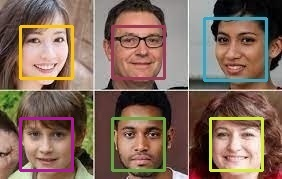
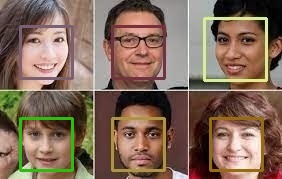
correção de cores

diff --git a/ProjetoPDS/website/scriptaddPublicacao.js b/ProjetoPDS/website/scriptaddPublicacao.js
@@ -277,9 +277,9 @@ document.getElementById('addPublicacao').addEventListener('submit', async functi
                         segundaCor = utentesVerificar[i].segundaCor;   
                         terceiraCor = utentesVerificar[i].terceiraCor;   
                         corUtilizador.setAttribute('id', 'corNaoIdentificado' + (i + 1));
-                        corUtilizador.style.backgroundColor = `rgb(${primeiraCor}, ${segundaCor}, ${terceiraCor})`;
+                        corUtilizador.style.backgroundColor = `rgb(${terceiraCor}, ${segundaCor}, ${primeiraCor})`;
                         corUtilizador.innerHTML='.'
-                        corUtilizador.style.color = `rgb(${primeiraCor}, ${segundaCor}, ${terceiraCor})`;
+                        corUtilizador.style.color = `rgb(${terceiraCor}, ${segundaCor}, ${primeiraCor})`;
                         corTd.append(corUtilizador);
                     }
                 //Para adicionar o nome do utilizador, valencia, sala, aut, criar todas as caixas de text para o mesmo.
